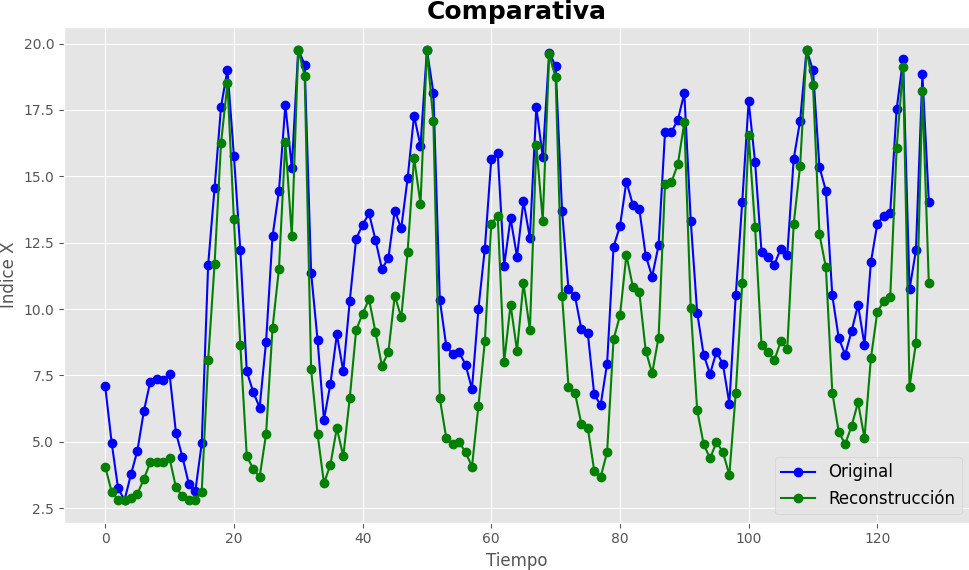
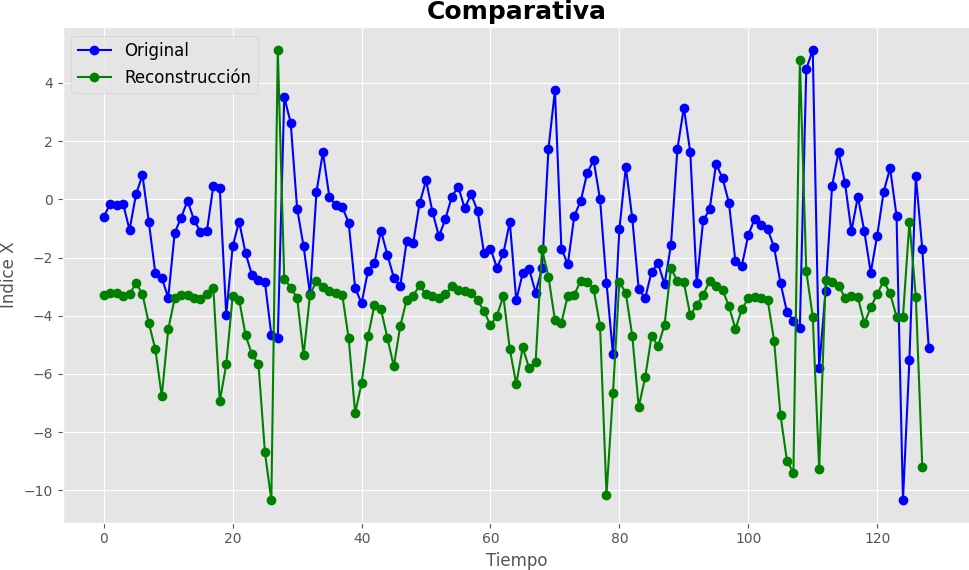
REC no cambiar

diff --git a/tgen/activity_data_tseries.py b/tgen/activity_data_tseries.py
@@ -20,6 +20,7 @@ import time
 import seaborn as sns
 from sklearn.model_selection import StratifiedGroupKFold, GroupKFold
 import tgen.REC as rpts
+import tgen.GAF2 as gaf2
 import time
 
 import os    
@@ -107,6 +108,84 @@ def generate_and_save_time_series_fromRP(fold, dataset_folder, training_data, y_
     return X_all_rec,errores
 
 
+def generate_and_save_time_series_fromGAF(fold, dataset_folder, training_data, y_data, sj_train,dictionary, TIME_STEPS=129, data_type="train", single_axis=False, FOLDS_N=3, sampling="loso"):
+
+    subject_samples = 0
+    p_bar = tqdm(range(len(training_data)))
+    X_all_rec=[]
+    tiempos=[]
+    start_gl=time.time()
+    #Colocar timer
+    
+    
+    for i in p_bar:
+      #start=time.time()
+      w = training_data[i]
+      sj = sj_train[i][0]
+      w_y = y_data[i]
+      w_y_no_cat = np.argmax(w_y)
+      #print("w_y", w_y, "w_y_no_cat", w_y_no_cat)
+      #print("w", w.shape)
+      error=[]
+      # Update Progress Bar after a while
+      #time.sleep(0.01)
+      #p_bar.set_description(f'[{data_type} | FOLD {fold} | Class {w_y_no_cat}] Subject {sj}')
+      path=f"{dataset_folder}plots/GAF/sampling_{sampling}/{FOLDS_N}-fold/fold-{fold}/{data_type}/{w_y_no_cat}/"
+      path=f"{path}{sj}x{subject_samples}gasf.png"  
+      imagen = cv2.imread(path)  
+      imagen = cv2.cvtColor(imagen, cv2.COLOR_BGR2RGB)
+      ##We need to change path 
+      rp=gaf2.Reconstruct_GAF(imagen,dictionary,subject_samples)
+      #end=time.time()
+      
+      #Si queremos guardar los datos
+      path=f"{dataset_folder}tseries/GAF/sampling_{sampling}/{FOLDS_N}-fold/fold-{fold}/{data_type}/{w_y_no_cat}/{sj}x{subject_samples}.npy"
+      np.save(path, np.array(rp))
+      
+      #print(rp)
+      X_all_rec.append(rp)
+      #print("X_ALL",np.array(X_all_rec))
+      #tiempo=end-start
+      #tiempos.append(tiempo)
+      #Guardar la rp en el path indicado con un nombre adecuado
+      #print(tiempos)
+      #w=w.reshape(3,129)
+      #w=w[:, 0]
+      #w=w[1:]
+      #print("Forma del RP original y calculada",w.shape,rp.shape)
+      
+      #print("normal",w,"calculada",rp)
+      """
+      error_abs,error_r,error_q,error_std,error_p,te=err.ts_error(w,rp)
+      t+=te
+      error.append(error_abs)
+      error.append(error_r)
+      error.append(error_q)
+      error.append(error_std)
+      error.append(error_p)
+      errores.append(error)
+      #print("errores",np.array(error))
+      #print("errores",np.array(errores))
+      """
+      subject_samples += 1
+
+    end_gl=time.time()
+    ttotal=end_gl-start_gl
+
+    #maybe we should calculate here the global of errors and the mean.
+    archivoX_all=f"{dataset_folder}tseries/GAF/sampling_{sampling}/{FOLDS_N}-fold/fold-{fold}/{data_type}/X_all_rec.npy"
+    np.save(archivoX_all,np.array(X_all_rec))
+    #archivoerrores=f"{dataset_folder}tseries/recurrence_plot/sampling_{sampling}/{FOLDS_N}-fold/fold-{fold}/{data_type}/errores_rec.npy"
+    #np.save(archivoerrores,np.array(errores))
+
+    #archivotiempos=f"{dataset_folder}tseries/recurrence_plot/sampling_{sampling}/{FOLDS_N}-fold/fold-{fold}/{data_type}/tiempos_rec.npy"
+    #np.save(archivotiempos,np.array(ttotal/subject_samples))
+    #print("Tiempo medio",np.mean(tiempos))
+    print("Tiempo medio total",np.mean(ttotal/subject_samples))
+    
+    #print("Numero total desplazamientos",t)
+    return X_all_rec
+
 #Generates all time series
 def generate_all_time_series(X_train, y_train, sj_train, dataset_folder="/home/adriano/Escritorio/TFG/data/WISDM/", TIME_STEPS=129,  FOLDS_N=3, sampling="loso",reconstruction="all"):
   groups = sj_train 
@@ -166,7 +245,8 @@ def generate_all_time_series(X_train, y_train, sj_train, dataset_folder="/home/a
 
     ##aqui añadir una opcion si quieres todas o una en especifico
     if reconstruction=="all":
-      generate_and_save_time_series_fromRP(fold, dataset_folder, training_data, y_training_data, sj_training_data,dictionary,TIME_STEPS=TIME_STEPS, data_type="train", single_axis=False, FOLDS_N=FOLDS_N, sampling=sampling)
+      #generate_and_save_time_series_fromRP(fold, dataset_folder, training_data, y_training_data, sj_training_data,dictionary,TIME_STEPS=TIME_STEPS, data_type="train", single_axis=False, FOLDS_N=FOLDS_N, sampling=sampling)
+      generate_and_save_time_series_fromGAF(fold, dataset_folder, training_data, y_training_data, sj_training_data,dictionary,TIME_STEPS=TIME_STEPS, data_type="train", single_axis=False, FOLDS_N=FOLDS_N, sampling=sampling)
       #print(train_index[0:6])
       #arch_training_data=f"{dataset_folder}tseries/recurrence_plot/sampling_{sampling}/{FOLDS_N}-fold/fold-{fold}/train/training_data.npy"
       #np.save(arch_training_data,np.array(training_data))

diff --git a/tgen/calculate_ts_errors.py b/tgen/calculate_ts_errors.py
@@ -42,30 +42,44 @@ def ts_error(original,creada):
     errores_std=[]
     errores_pearson =[]
     t=0
-    for i in range(0,3):
-      pearsona=np.corrcoef(original[1:,i], creada[i])[0,1]
-      pearsonb=np.corrcoef(original[:-1,i], creada[i])[0,1]
-      if pearsonb<=pearsona :
+    if original.shape!=creada.shape:
+      for i in range(0,3):
+        pearsona=np.corrcoef(original[1:,i], creada[i])[0,1]
+        pearsonb=np.corrcoef(original[:-1,i], creada[i])[0,1]
+        if pearsonb<=pearsona :
+          error_absoluto, error_relativo = calcular_errores(original[1:,i], creada[i])
+          #d = dtw.distance_fast(original[:-1,i], creada[i], use_pruning=True)
+          rms=rmse(original[1:,i], creada[i])
+          std=stderror(original[1:,i], creada[i])
+          pearson=pearsona
+
+        else :
+          error_absoluto, error_relativo = calcular_errores(original[:-1,i], creada[i])
+          #d = dtw.distance_fast(original[:-1,i], creada[i], use_pruning=True)
+          rms=rmse(original[:-1,i], creada[i])
+          std=stderror(original[:-1,i], creada[i])
+          pearson=pearsonb
+          t+=1
+        #print(f"Error Absoluto Promedio: {error_absoluto}")
+        #print(f"Error Relativo Promedio: {error_relativo}")
+        #print(f"Error DTW: {d}")
+        #print(f"Coeficiente de correlación: {pearson}")
+        errores_absolutos=np.append(errores_absolutos,error_absoluto)
+        errores_relativos=np.append(errores_relativos,error_relativo)
+        errores_rms=np.append(errores_rms,rms)
+        errores_std=np.append(errores_std,std)
+        errores_pearson=np.append(errores_pearson,pearson)
+    else:
+       for i in range(0,3):
+        pearson=np.corrcoef(original[1:,i], creada[i])[0,1]
         error_absoluto, error_relativo = calcular_errores(original[1:,i], creada[i])
         #d = dtw.distance_fast(original[:-1,i], creada[i], use_pruning=True)
         rms=rmse(original[1:,i], creada[i])
         std=stderror(original[1:,i], creada[i])
-        pearson=pearsona
-
-      else :
-        error_absoluto, error_relativo = calcular_errores(original[:-1,i], creada[i])
-        #d = dtw.distance_fast(original[:-1,i], creada[i], use_pruning=True)
-        rms=rmse(original[:-1,i], creada[i])
-        std=stderror(original[:-1,i], creada[i])
-        pearson=pearsonb
-        t+=1
-      #print(f"Error Absoluto Promedio: {error_absoluto}")
-      #print(f"Error Relativo Promedio: {error_relativo}")
-      #print(f"Error DTW: {d}")
-      #print(f"Coeficiente de correlación: {pearson}")
-      errores_absolutos=np.append(errores_absolutos,error_absoluto)
-      errores_relativos=np.append(errores_relativos,error_relativo)
-      errores_rms=np.append(errores_rms,rms)
-      errores_std=np.append(errores_std,std)
-      errores_pearson=np.append(errores_pearson,pearson)
+        errores_absolutos=np.append(errores_absolutos,error_absoluto)
+        errores_relativos=np.append(errores_relativos,error_relativo)
+        errores_rms=np.append(errores_rms,rms)
+        errores_std=np.append(errores_std,std)
+        errores_pearson=np.append(errores_pearson,pearson)
+        
     return  errores_absolutos, errores_relativos,errores_rms,errores_std,errores_pearson,t  

diff --git a/tgen/REC.py b/tgen/REC.py
@@ -78,7 +78,7 @@ def RecurrrenceTreshold(rp,X):
 
 def FuncionC(rp,cord1,cord2,method="Euclid"):
     if(method=="Euclid"):
-       THRESHOLD=RecurrrenceTreshold(rp,30) # THRESHOLD=RecurrrenceTreshold(rp,75)
+       THRESHOLD=RecurrrenceTreshold(rp,75) # THRESHOLD=RecurrrenceTreshold(rp,75)
        valor=0
        d=rp[cord1][cord2]
        if((d<=THRESHOLD)and(d>=(-THRESHOLD))):
@@ -219,10 +219,10 @@ def fix_rotationscale(rporiginal,seriereconstruida,i,dictionary,TIME_STEPS=129):
      distancia_euclidianab = np.linalg.norm(rporiginal - rnega)
      inverted=0
      if distancia_euclidianab<distancia_euclidianaa :
-         rp=nega[:129]
+         rp=nega[:128]
          inverted+=1
      else :
-        rp=posi[:129]
+        rp=posi[:128]
      
         #print("posi")
         
@@ -328,10 +328,10 @@ def main():
          minimos=[np.min(l[:,0]),np.min(l[:,1]),np.min(l[:,2])]
          dictionary[k]=[maximos,minimos]
      #print("Diccionario",dictionary)
-     img = rec.SavevarRP_XYZ(w, sj, 5, "x", normalized = 1, path=f"./", TIME_STEPS=129)
+     img = rec.SavevarRP_XYZ(w, sj, 0, "x", normalized = 1, path=f"./", TIME_STEPS=129)
      #parte de reconstruccion
      #primero genero la RP a partir de la imagen
-     imagen = cv2.imread("./1600x02.png")  
+     imagen = cv2.imread("./1600x0.png")  
      imagen = cv2.cvtColor(imagen, cv2.COLOR_BGR2RGB)
      print("Image shape",imagen.shape)
      rp,ninv=Reconstruct_RP(imagen,dictionary,a)
@@ -405,7 +405,7 @@ def main():
      plt.clf()
      
      f=np.array(w[:,dim])
-     f=f[:]
+     f=f[1:]
      print(f.shape)
      error_absoluto, error_relativo = err.calcular_errores(f, rp[dim])
      d = metrics.mean_squared_error(f,rp[dim])#metrics.root_mean_squared_error()
